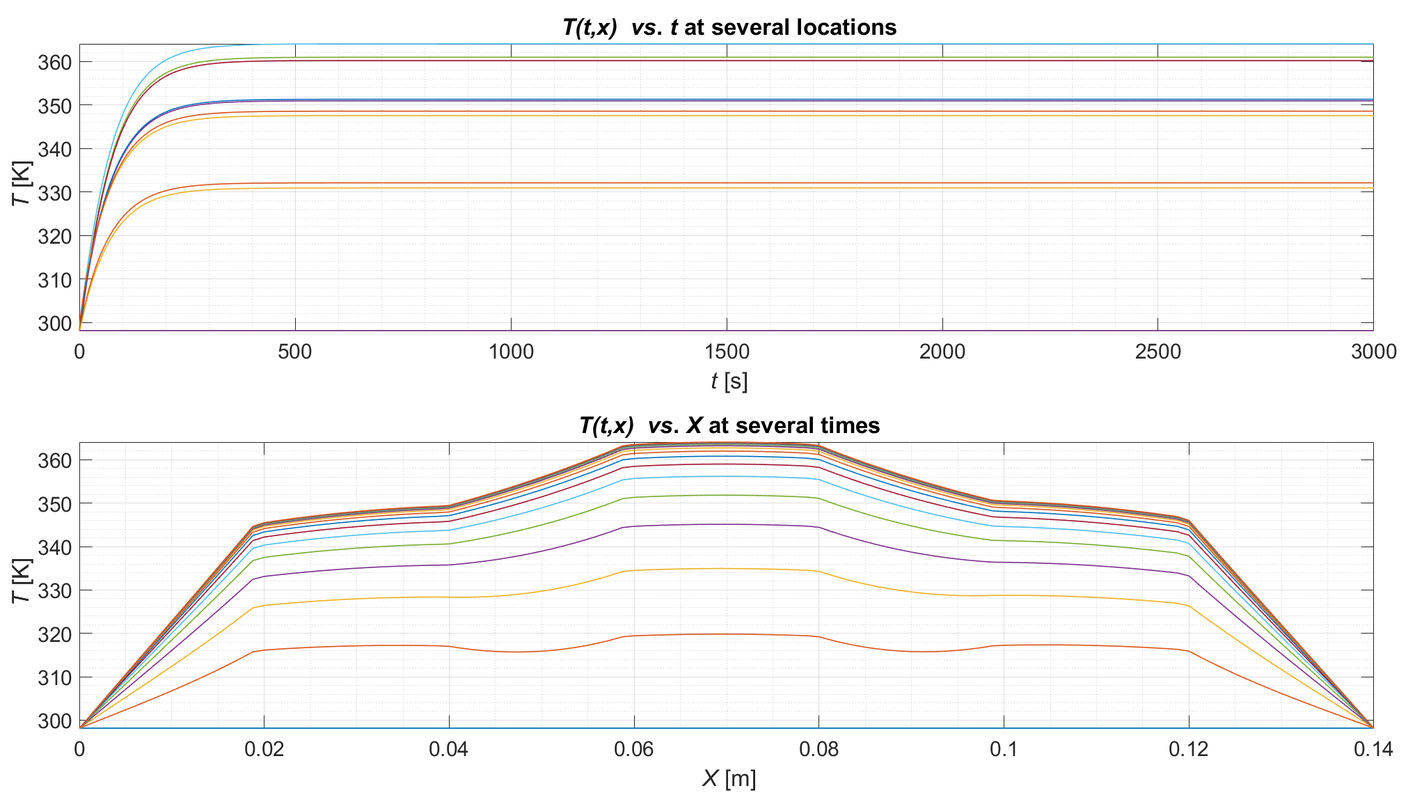
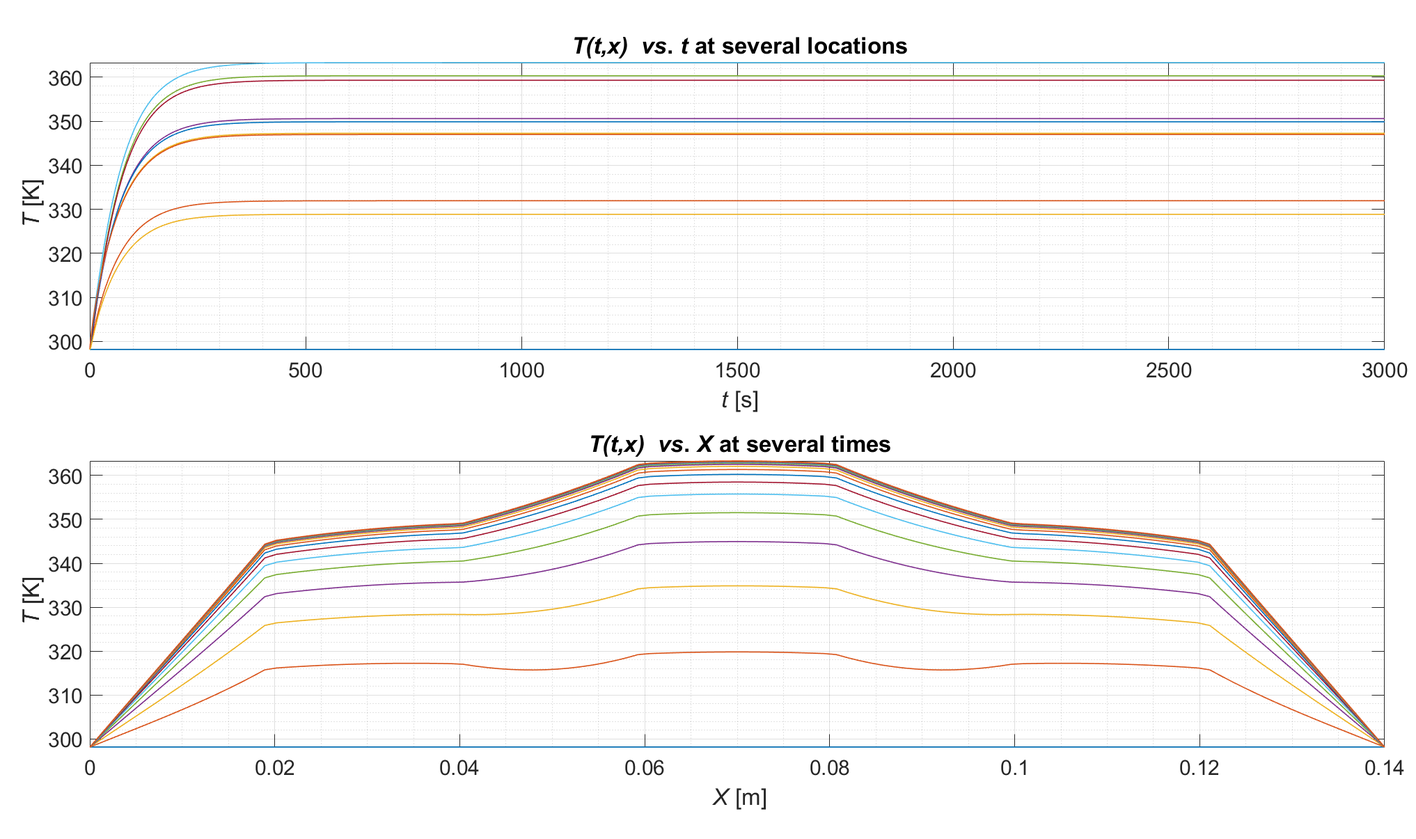
+ figuras

Changed region(s): [[0.0, 0.031, 0.9916, 0.9294], [0.031, 0.5577, 0.062, 0.6816], [0.4958, 0.9294, 0.5578, 0.9914]]

diff --git a/Scripts/Plot_Model_comparison.m b/Scripts/Plot_Model_comparison.m
@@ -1,19 +1,20 @@
-clc; clear all;
+clc; clear all; close all;
 %% Data
 dx=0.14;
 T_b = 298.15;
 m = 8e0;                                                    % Spatial Subdivisions
 M = 14*m;                                                   % Total n of spatial subdivisions
-x = linspace(0, dx, M+1);                                     % Spatial Coordinates [m]
-xx = linspace(0, dx, M);                                     % Spatial Coordinates [m]
+x = linspace(0, dx, M);                                     % Spatial Coordinates [m]
+xx =x;                                                      % Spatial Coordinates [m]
 % X = linspace(0,dx,M);
 
-T_apD_Num = [298.150000000000,301.261359749779,304.363208168939,307.457176914116,310.544943959253,313.628235188425,316.708826126700,319.788543819270,322.869268869768,325.952937649551,329.041544690604,332.137145275755,335.241858240977,338.357869005837,341.487432849487,344.632878451190,345.521379670538,345.913021709391,346.284522370425,346.635919632971,346.967249533814,347.278546152308,347.569841596339,347.841165989125,348.092547456864,348.324012117221,348.535584068665,348.727285380642,348.899136084591,349.051154165806,349.183355556137,349.295754127529,349.495553226866,350.229127361993,350.985435547089,351.765095284256,352.568747333720,353.397056648013,354.250713356480,355.130433803192,356.036961641667,356.971068989977,357.933557650157,358.925260396070,359.947042334261,360.999802342638,362.084474592235,363.202030157700,363.525402379160,363.657084787726,363.770581093863,363.865904763881,363.943067117654,364.002077324882,364.042942402064,364.065667210188,364.070254453127,364.056704676746,364.025016268727,363.975185459097,363.907206321470,363.821070775004,363.716768587059,363.594287376582,363.290784181322,362.244057895507,361.230358534211,360.248777093183,359.298440631552,358.378510766442,357.488182251470,356.626681633901,355.793265985610,354.987221703359,354.207863374197,353.454532702128,352.726597492450,352.023450690402,351.344509471034,350.689214377386,350.511671622650,350.409717393617,350.288089781291,350.146775887687,349.985760744053,349.805027316847,349.604556514545,349.384327195279,349.144316175315,348.884498238354,348.604846145677,348.305330647121,347.985920492885,347.646582446183,347.287281296715,346.907979874994,346.046409452109,342.997960627294,339.966540682881,336.949862780835,333.945711128913,330.951937492575,327.966457963969,324.987249969821,322.012349501472,319.039848551708,316.067892744198,313.094679142441,310.118454226122,307.137512023634,304.150192390333,301.154879422796,298.150000000000];
+T_apD_Num = [298.150000000000,301.243709669967,304.327898867862,307.404189535047,310.474249335283,313.539793224774,316.602585158364,319.664439941914,322.727225241583,325.792863761566,328.863335602689,331.940680815281,335.027002160826,338.124468098101,341.235316010888,344.361855695820,345.244988435313,345.634114084403,346.003069922636,346.351893577651,346.680620734790,346.989285122316,347.277918497457,347.546550633311,347.795209306585,348.023920286188,348.232707322666,348.421592138480,348.590594419131,348.739731805130,348.869019884807,348.978472187974,349.171842927707,349.882265833555,350.615140922503,351.371064730178,352.150656484623,352.954559001808,353.783439629312,354.637991241142,355.518933286868,356.427012898493,357.363006058738,358.327718834694,359.321988681090,360.346685817796,361.402714686465,362.491015491696,362.805991111289,362.933696693744,363.043130639751,363.134305856088,363.207233104991,363.261921000558,363.298376005880,363.316602430880,363.316602430880,363.298376005880,363.261921000558,363.207233104991,363.134305856088,363.043130639751,362.933696693744,362.805991111289,362.491015491696,361.402714686465,360.346685817796,359.321988681090,358.327718834694,357.363006058738,356.427012898493,355.518933286868,354.637991241142,353.783439629312,352.954559001808,352.150656484623,351.371064730178,350.615140922503,349.882265833555,349.171842927707,348.978472187974,348.869019884807,348.739731805130,348.590594419131,348.421592138480,348.232707322666,348.023920286188,347.795209306585,347.546550633311,347.277918497457,346.989285122316,346.680620734790,346.351893577651,346.003069922636,345.634114084403,345.244988435313,344.361855695820,341.235316010888,338.124468098101,335.027002160826,331.940680815281,328.863335602689,325.792863761566,322.727225241583,319.664439941914,316.602585158364,313.539793224774,310.474249335283,307.404189535047,304.327898867862,301.243709669967,298.150000000000];
 T_apA_An = [298.150000000000,302.326072660193,306.426216726565,310.450432199115,314.398719077843,318.271077362749,322.067507053834,325.788008151097,329.432580654539,333.001224564158,336.493939879956,339.910726601933,343.251584730087,346.516514264420,349.705515204931,352.818587551621,355.855731304489,358.816946463535,361.702233028759,364.511591000162,367.245020377743,369.902521161502,372.484093351440,374.989736947556,377.419451949850,379.773238358323,382.051096172974,384.253025393803,386.379026020810,388.429098053996,390.403241493360,392.301456338903,394.123742590623,395.870100248522,397.540529312600,399.135029782855,400.653601659289,402.096244941901,403.462959630692,404.753745725661,405.968603226808,407.107532134133,408.170532447637,409.157604167319,410.068747293179,410.903961825218,411.663247763435,412.346605107830,412.954033858404,413.485534015156,413.941105578086,414.320748547194,414.624462922481,414.852248703946,415.004105891590,415.080034485411,415.080034485411,415.004105891590,414.852248703946,414.624462922481,414.320748547194,413.941105578086,413.485534015156,412.954033858404,412.346605107830,411.663247763435,410.903961825218,410.068747293179,409.157604167319,408.170532447637,407.107532134133,405.968603226808,404.753745725661,403.462959630692,402.096244941901,400.653601659289,399.135029782855,397.540529312600,395.870100248522,394.123742590623,392.301456338903,390.403241493360,388.429098053996,386.379026020810,384.253025393803,382.051096172974,379.773238358323,377.419451949850,374.989736947556,372.484093351440,369.902521161503,367.245020377743,364.511591000162,361.702233028759,358.816946463535,355.855731304489,352.818587551621,349.705515204931,346.516514264420,343.251584730087,339.910726601933,336.493939879956,333.001224564158,329.432580654539,325.788008151097,322.067507053834,318.271077362749,314.398719077843,310.450432199115,306.426216726565,302.326072660193,298.150000000000];
-T_apA_Num = [298.150000000000,302.289121691544,306.353664604462,310.343628739183,314.259014096136,318.099820675749,321.866048478447,325.557697504656,329.174767754797,332.717259229290,336.185171928554,339.578505853003,342.897261003048,346.141437379096,349.311034981551,352.406053810812,355.426493867273,358.372355151325,361.243637663352,364.040341403732,366.762466372839,369.410012571039,371.982979998694,374.481368656157,376.905178543775,379.254409661888,381.529062010828,383.729135590918,385.854630402476,387.905546445810,389.881883721218,391.783642228992,393.610821969414,395.363422942755,397.041445149280,398.644888589242,400.173753262884,401.628039170440,403.007746312133,404.312874688178,405.543424298775,406.699395144118,407.780787224386,408.787600539750,409.719835090369,410.577490876391,411.360567897951,412.069066155174,412.702985648174,413.262326377051,413.747088341896,414.157271542787,414.492875979789,414.753901652957,414.940348562332,415.052216707945,415.089506089814,415.052216707945,414.940348562332,414.753901652957,414.492875979789,414.157271542787,413.747088341896,413.262326377051,412.702985648174,412.069066155174,411.360567897951,410.577490876391,409.719835090369,408.787600539750,407.780787224386,406.699395144118,405.543424298775,404.312874688178,403.007746312133,401.628039170440,400.173753262884,398.644888589242,397.041445149280,395.363422942755,393.610821969414,391.783642228992,389.881883721218,387.905546445810,385.854630402476,383.729135590918,381.529062010828,379.254409661888,376.905178543775,374.481368656157,371.982979998694,369.410012571039,366.762466372839,364.040341403732,361.243637663352,358.372355151325,355.426493867273,352.406053810812,349.311034981551,346.141437379096,342.897261003048,339.578505853003,336.185171928554,332.717259229290,329.174767754797,325.557697504656,321.866048478447,318.099820675749,314.259014096136,310.343628739183,306.353664604462,302.289121691544,298.150000000000];
+T_apA_Num = [298.150000000000,302.251832440304,306.279086101879,310.231760985051,314.109857090146,317.913374417489,321.642312967405,325.296672740216,328.876453736242,332.381655955804,335.812279399219,339.168324066801,342.449789958863,345.656677075714,348.788985417660,351.846714985005,354.829865778049,357.738437797086,360.572431042409,363.331845514305,366.016681213056,368.626938138942,371.162616292235,373.623715673203,376.010236282109,378.322178119210,380.559541184756,382.722325478994,384.810531002162,386.824157754494,388.763205736213,390.627674947542,392.417565388690,394.132877059864,395.773609961262,397.339764093073,398.831339455482,400.248336048663,401.590753872783,402.858592928003,404.051853214472,405.170534732334,406.214637481723,407.184161462766,408.079106675579,408.899473120273,409.645260796947,410.316469705691,410.913099846589,411.435151219714,411.882623825129,412.255517662891,412.553832733045,412.777569035628,412.926726570668,413.001305338184,413.001305338184,412.926726570668,412.777569035628,412.553832733045,412.255517662891,411.882623825129,411.435151219714,410.913099846589,410.316469705691,409.645260796947,408.899473120273,408.079106675579,407.184161462766,406.214637481723,405.170534732334,404.051853214472,402.858592928003,401.590753872783,400.248336048663,398.831339455482,397.339764093073,395.773609961262,394.132877059864,392.417565388690,390.627674947542,388.763205736213,386.824157754494,384.810531002162,382.722325478994,380.559541184756,378.322178119210,376.010236282109,373.623715673203,371.162616292235,368.626938138942,366.016681213056,363.331845514305,360.572431042409,357.738437797086,354.829865778049,351.846714985005,348.788985417660,345.656677075714,342.449789958863,339.168324066801,335.812279399219,332.381655955804,328.876453736242,325.296672740216,321.642312967405,317.913374417489,314.109857090146,310.231760985051,306.279086101879,302.251832440304,298.150000000000];
 T_apB_An = [298.150000000000,302.364036957104,306.578073914208,310.792110871312,315.006147828416,319.220184785521,323.434221742625,327.648258699729,331.862295656833,336.076332613937,340.290369571041,344.504406528145,348.718443485249,352.932480442353,357.146517399458,361.360554356562,361.897564864880,362.411513572227,362.902400478603,363.370225584009,363.814988888444,364.236690391908,364.635330094402,365.010907995925,365.363424096477,365.692878396059,365.999270894670,366.282601592310,366.542870488979,366.780077584678,366.994222879406,367.185306373163,368.589985358864,369.994664344566,371.399343330267,372.804022315968,374.208701301670,375.613380287371,377.018059273073,378.422738258774,379.827417244475,381.232096230177,382.636775215878,384.041454201579,385.446133187281,386.850812172982,388.255491158683,389.660170144385,389.831486380167,389.979740814979,390.104933448820,390.207064281690,390.286133313590,390.342140544519,390.375085974477,390.384969603464,390.384969603464,390.375085974477,390.342140544519,390.286133313590,390.207064281690,390.104933448820,389.979740814979,389.831486380167,389.660170144385,388.255491158683,386.850812172982,385.446133187281,384.041454201579,382.636775215878,381.232096230177,379.827417244475,378.422738258774,377.018059273073,375.613380287371,374.208701301670,372.804022315968,371.399343330267,369.994664344566,368.589985358864,367.185306373163,366.994222879406,366.780077584678,366.542870488979,366.282601592310,365.999270894670,365.692878396059,365.363424096477,365.010907995925,364.635330094402,364.236690391908,363.814988888444,363.370225584009,362.902400478603,362.411513572227,361.897564864880,361.360554356562,357.146517399458,352.932480442353,348.718443485249,344.504406528145,340.290369571041,336.076332613937,331.862295656833,327.648258699729,323.434221742625,319.220184785521,315.006147828416,310.792110871312,306.578073914208,302.364036957104,298.150000000000];
-T_apB_Num = [298.150000000000,302.387343167327,306.624686334655,310.862029501984,315.099372669314,319.336715836645,323.574059003977,327.811402171309,332.048745338642,336.286088505976,340.523431673311,344.760774840647,348.998118007984,353.235461175321,357.472804342660,361.710147509999,362.900160780972,363.429084138799,363.935355675057,364.418975389746,364.879943282867,365.318259354419,365.733923604401,366.126936032815,366.497296639661,366.845005424937,367.170062388644,367.472467530783,367.752220851353,368.009322350354,368.243772027786,368.455569883649,368.863648962205,370.316717711465,371.769786460725,373.222855209986,374.675923959248,376.128992708511,377.582061457775,379.035130207040,380.488198956306,381.941267705573,383.394336454840,384.847405204109,386.300473953378,387.753542702649,389.206611451920,390.659680201192,391.067759279752,391.234253492480,391.378095883638,391.499286453228,391.597825201249,391.673712127702,391.726947232585,391.757530515900,391.765461977646,391.750741617823,391.713369436432,391.653345433471,391.570669608942,391.465341962844,391.337362495177,391.186731205942,390.812876092087,389.481670423286,388.150464754487,386.819259085688,385.488053416890,384.156847748094,382.825642079298,381.494436410503,380.163230741708,378.832025072915,377.500819404123,376.169613735332,374.838408066541,373.507202397751,372.175996728963,370.844791060175,370.470935946324,370.275001013953,370.056414260013,369.815175684504,369.551285287427,369.264743068780,368.955549028565,368.623703166781,368.269205483428,367.892055978506,367.492254652015,367.069801503956,366.624696534327,366.156939743130,365.666531130364,365.153470696029,363.997681389762,359.882201302895,355.766721216030,351.651241129165,347.535761042301,343.420280955438,339.304800868576,335.189320781714,331.073840694854,326.958360607994,322.842880521135,318.727400434277,314.611920347420,310.496440260564,306.380960173708,302.265480086854,298.150000000000];
+T_apB_Num = [298.150000000000,302.326411627096,306.502823254192,310.679234881289,314.855646508387,319.032058135486,323.208469762586,327.384881389687,331.561293016788,335.737704643891,339.914116270994,344.090527898098,348.266939525203,352.443351152309,356.619762779415,360.796174406523,361.969075695144,362.490067591226,362.988407665738,363.464095918682,363.917132350057,364.347516959864,364.755249748101,365.140330714769,365.502759859869,365.842537183400,366.159662685362,366.454136365755,366.725958224579,366.975128261835,367.201646477521,367.405512871639,367.796479967844,369.188617176872,370.580754385901,371.972891594930,373.365028803961,374.757166012992,376.149303222024,377.541440431057,378.933577640091,380.325714849126,381.717852058161,383.109989267198,384.502126476235,385.894263685273,387.286400894312,388.678538103352,389.069505199560,389.228067950542,389.363978879955,389.477237987800,389.567845274075,389.635800738782,389.681104381919,389.703756203488,389.703756203488,389.681104381919,389.635800738782,389.567845274075,389.477237987800,389.363978879955,389.228067950542,389.069505199560,388.678538103352,387.286400894312,385.894263685273,384.502126476235,383.109989267198,381.717852058161,380.325714849126,378.933577640091,377.541440431057,376.149303222024,374.757166012992,373.365028803961,371.972891594930,370.580754385901,369.188617176872,367.796479967844,367.405512871639,367.201646477521,366.975128261835,366.725958224579,366.454136365755,366.159662685362,365.842537183400,365.502759859869,365.140330714769,364.755249748101,364.347516959864,363.917132350057,363.464095918682,362.988407665738,362.490067591226,361.969075695144,360.796174406523,356.619762779415,352.443351152309,348.266939525203,344.090527898098,339.914116270994,335.737704643891,331.561293016788,327.384881389687,323.208469762586,319.032058135486,314.855646508387,310.679234881289,306.502823254192,302.326411627096,298.150000000000];
 T_apC_An = [298.15,300.387673043729,303.111610936472,305.744317078174,308.288469400123,310.746655758590,313.121376567140,315.415047340005,317.630001149085,319.768490997102,321.832692109301,323.824704146050,325.746553338558,327.600194549923,329.387513263568,331.110327501120,332.770389671658,334.369388354228,335.908950015426,337.390640663806,338.815967442791,340.186380163702,341.503272780480,342.767984807583,343.981802682509,345.145961074335,346.261644139596,347.329986726780,348.352075530673,349.328950197721,350.261604383537,351.150986763624,351.998001998347,352.803511653135,353.568335074847,354.293250225192,354.978994472053,355.626265339530,356.235721217434,356.807982030997,357.343629871441,357.843209588071,358.307229342482,358.736161125450,359.130441237035,359.490470730368,359.816615819600,360.109208252404,360.368545647426,360.594891797007,360.788476935516,360.949497973535,361.078118698154,361.174469939569,361.238649704162,361.270723274191,361.270723274191,361.238649704162,361.174469939569,361.078118698154,360.949497973535,360.788476935516,360.594891797007,360.368545647426,360.109208252404,359.816615819600,359.490470730368,359.130441237035,358.736161125450,358.307229342482,357.843209588071,357.343629871441,356.807982030997,356.235721217434,355.626265339530,354.978994472053,354.293250225192,353.568335074847,352.803511653135,351.998001998347,351.150986763624,350.261604383537,349.328950197721,348.352075530673,347.329986726780,346.261644139596,345.145961074335,343.981802682509,342.767984807583,341.503272780480,340.186380163702,338.815967442791,337.390640663806,335.908950015426,334.369388354228,332.770389671658,331.110327501120,329.387513263568,327.600194549923,325.746553338558,323.824704146050,321.832692109301,319.768490997102,317.630001149085,315.415047340005,313.121376567140,310.746655758590,308.288469400124,305.744317078175,303.111610936472,300.387673043729,298.15];
+T_apC_Num = [298.150000000000,301.083356781947,303.932531335274,306.699017882861,309.384308056219,311.989888832147,314.517240539408,316.967834938552,319.343133377427,321.644585024309,323.873625180021,326.031673669895,328.120133315957,330.140388489248,332.093803741806,333.981722517450,335.805465940171,337.566331678648,339.265592885116,340.904497206619,342.484265866415,344.006092813213,345.471143935694,346.880556339705,348.235437685401,349.536865581539,350.785887034091,351.983517946291,353.130742667246,354.228513586233,355.277750769809,356.279341638931,357.234140683290,358.142969210142,359.006615124978,359.825832741435,360.601342617973,361.333831418864,362.023951797195,362.672322297650,363.279527276939,363.846116839857,364.372606789061,364.859478586744,365.307179326527,365.716121713973,366.086684054255,366.419210245617,366.714009777383,366.971357731387,367.191494785801,367.374627220452,367.520926922858,367.630531394278,367.703543755234,367.740032750047,367.740032750047,367.703543755234,367.630531394278,367.520926922858,367.374627220452,367.191494785801,366.971357731387,366.714009777383,366.419210245617,366.086684054255,365.716121713973,365.307179326527,364.859478586744,364.372606789061,363.846116839857,363.279527276939,362.672322297650,362.023951797195,361.333831418864,360.601342617973,359.825832741435,359.006615124978,358.142969210142,357.234140683290,356.279341638931,355.277750769809,354.228513586233,353.130742667246,351.983517946291,350.785887034091,349.536865581539,348.235437685401,346.880556339705,345.471143935694,344.006092813213,342.484265866415,340.904497206619,339.265592885116,337.566331678648,335.805465940171,333.981722517450,332.093803741806,330.140388489248,328.120133315957,326.031673669895,323.873625180021,321.644585024309,319.343133377427,316.967834938552,314.517240539408,311.989888832147,309.384308056219,306.699017882861,303.932531335274,301.083356781947,298.150000000000];
 
 T_stat_plot_central = [298.150000000000,302.697561442662,307.238998953651,311.782714883455,316.337044789347,320.910157613121,325.509954208464,330.143967740415,334.819273097100,339.542416247864,344.319377485800,349.155583341989,354.055979217992,356.438960352454,357.349110195355,357.956897003959,358.529037770617,359.064732285873,359.562998667003,360.022752803866,360.442884015472,360.822321807750,361.160091052406,361.455354826111,361.707445368658,361.915884213791,362.080392719801,362.250988599592,362.666636451580,363.602228078228,364.609401021309,365.691036770895,366.850066082878,368.089376094783,369.411726950986,370.819680839085,372.315547051795,373.901347954311,375.578811923391,377.349399525473,379.214367507668,380.154529701350,380.512914870676,380.730678357926,380.912798080866,381.058978757688,381.168926536632,381.242384716948,381.279163959280,381.279163959280,381.242384716948,381.168926536632,381.058978757688,380.912798080866,380.730678357926,380.512914870676,380.154529701350,379.214367507668,377.349399525473,375.578811923391,373.901347954311,372.315547051795,370.819680839085,369.411726950986,368.089376094783,366.850066082878,365.691036770895,364.609401021309,363.602228078228,362.666636451580,362.250988599592,362.080392719801,361.915884213791,361.707445368658,361.455354826111,361.160091052406,360.822321807750,360.442884015472,360.022752803866,359.562998667003,359.064732285873,358.529037770617,357.956897003959,357.349110195355,356.438960352454,354.055979217992,349.155583341989,344.319377485800,339.542416247864,334.819273097100,330.143967740415,325.509954208464,320.910157613121,316.337044789347,311.782714883455,307.238998953651,302.697561442662,298.150000000000];
 X = [0,0.00144329896907217,0.00288659793814433,0.00432989690721650,0.00577319587628866,0.00721649484536083,0.00865979381443299,0.0101030927835052,0.0115463917525773,0.0129896907216495,0.0144329896907217,0.0158762886597938,0.0173195876288660,0.0187628865979381,0.0202061855670103,0.0216494845360825,0.0230927835051546,0.0245360824742268,0.0259793814432990,0.0274226804123711,0.0288659793814433,0.0303092783505155,0.0317525773195876,0.0331958762886598,0.0346391752577320,0.0360824742268041,0.0375257731958763,0.0389690721649485,0.0404123711340206,0.0418556701030928,0.0432989690721650,0.0447422680412371,0.0461855670103093,0.0476288659793814,0.0490721649484536,0.0505154639175258,0.0519587628865979,0.0534020618556701,0.0548453608247423,0.0562886597938144,0.0577319587628866,0.0591752577319588,0.0606185567010309,0.0620618556701031,0.0635051546391753,0.0649484536082474,0.0663917525773196,0.0678350515463918,0.0692783505154639,0.0707216494845361,0.0721649484536083,0.0736082474226804,0.0750515463917526,0.0764948453608248,0.0779381443298969,0.0793814432989691,0.0808247422680413,0.0822680412371134,0.0837113402061856,0.0851546391752577,0.0865979381443299,0.0880412371134021,0.0894845360824742,0.0909278350515464,0.0923711340206186,0.0938144329896907,0.0952577319587629,0.0967010309278351,0.0981443298969072,0.0995876288659794,0.101030927835052,0.102474226804124,0.103917525773196,0.105360824742268,0.106804123711340,0.108247422680412,0.109690721649485,0.111134020618557,0.112577319587629,0.114020618556701,0.115463917525773,0.116907216494845,0.118350515463918,0.119793814432990,0.121237113402062,0.122680412371134,0.124123711340206,0.125567010309278,0.127010309278351,0.128453608247423,0.129896907216495,0.131340206185567,0.132783505154639,0.134226804123711,0.135670103092784,0.137113402061856,0.138556701030928,0.140000000000000];
@@ -42,27 +43,65 @@ hold on
 myplot(xx, T_apB_An)
 myplot1(x, T_apB_Num)
 myplot2(x, T_apD_Num)
-myplot3(x, T_apD_Num)
 
 axis([0 dx T_b*0.95 max(T_apB_An)*1.09])
 ylabel('{\it T} [K]')
 xlabel('{\it x} [m]');
 legend('Solución analítica, solo conducción', 'Solución numérica, solo conducción',...
-    'Solución analítica, radiación y conducción', 'Solución numérica, radiación y conducción')
+    'Solución numérica, radiación y conducción')
 hold off
 
+%% Comparar A y C (numerical + analitical)
+figure()
+hold on
+myplot(xx, T_apA_An)
+myplot1(x, T_apA_Num)
+% myplot2(x, T_apC_Num)
+myplot3(x, T_apC_An)
+axis([0 dx T_b*0.95 max(T_apA_Num)*1.09])
+ylabel('{\it T} [K]')
+xlabel('{\it x} [m]');
+% legend('Solución analítica, solo conducción, disipación uniforme', 'Solución numérica, solo conducción, disipación uniforme',...
+%     'Solución numérica, radiación y conducción, disipación uniforme', 'Solución analítica, radiación y conducción, disipación uniforme')
+legend('Solución analítica, solo conducción, disipación uniforme', 'Solución numérica, solo conducción, disipación uniforme',...
+    'Solución analítica, radiación y conducción, disipación uniforme')
+hold off
 
 %% Comparar E(perfil central) con D
 figure()
 hold on
 myplot(x, T_apD_Num)
-myplot1(X, T_stat_plot_central)
-axis([0 dx T_b*0.95 max(T_stat_plot_central)*1.09])
+myplot3(X, T_stat_plot_central)
+axis([0 dx T_b*0.95 max(T_stat_plot_central)*1.06])
 ylabel('{\it T} [K]')
 xlabel('{\it x} [m]');
 legend('Modelo 1D estacionario', 'Modelo 2D estacionario, perfil central')
 hold off
 
+%% Comparar E(perfil central) con D y con B
+figure()
+hold on
+myplot(x, T_apD_Num)
+myplot1(x, T_apB_Num)
+myplot3(X, T_stat_plot_central)
+
+axis([0 dx T_b*0.95 max(T_apB_Num)*1.04])
+ylabel('{\it T} [K]')
+xlabel('{\it x} [m]');
+legend('Modelo 1D estacionario', 'Modelo 1D estacionario, solo conducción', 'Modelo 2D estacionario, perfil central')
+hold off
+
+%% Comparar E(perfil central) con D y  con C
+figure()
+hold on
+myplot1(x, T_apC_An)
+myplot(x, T_apD_Num)
+myplot3(X, T_stat_plot_central)
+axis([0 dx T_b*0.95 max(T_stat_plot_central)*1.06])
+ylabel('{\it T} [K]')
+xlabel('{\it x} [m]');
+legend('Solución analítica 1D estacionario', 'Modelo 1D estacionario', 'Modelo 2D estacionario, perfil central')
+hold off
 %% FUNCTIONS
 %%%%%%%%%%%%%%%%%%%%%%%%%%%%%%%%%%
 % Plotting function

diff --git a/Scripts/Conduccion_NumSim_vFINAL.m b/Scripts/Conduccion_NumSim_vFINAL.m
@@ -26,7 +26,7 @@ Conduccion_NumSim_DATOS
 %___________________________________________________________________________
 %% Choose exercise to run
 %%%%%%%%%%%%%%%%%%%%%%%%%%%%%%%%%%%%%%%%%%%%%%%%%%%%%%%%%%%%%%%%%%%%%%%%%%%%
-choose = 'e';       % 'a', 'b', 'c', 'd' & 'e' %
+choose = 'd';       % 'a', 'b', 'c', 'd' & 'e' %
 %%%%%%%%%%%%%%%%%%%%%%%%%%%%%%%%%%%%%%%%%%%%%%%%%%%%%%%%%%%%%%%%%%%%%%%%%%%%
 %___________________________________________________________________________
 %% Define global parameters
@@ -211,8 +211,8 @@ switch(choose)
         % Resolver el caso anterior pero sin linealizar y con la disipación no uniforme.
     case 'd'
         %%%%%%%%%%%%%%%%%%%%%%%%%%%%%%%%%%%%%%%%%%%%%%%%%%%%%%%%%%%%%%%%%%%%%%%%%%%%
-        validate = 2;       % 1: Uniform dissipation    % 2: Non-uniform dissipation
-        radiation = 2;      % 1: Include radiation      % 2: Do not include radiation
+        validate = 1;       % 1: Uniform dissipation    % 2: Non-uniform dissipation
+        radiation = 1;      % 1: Include radiation      % 2: Do not include radiation
         %%%%%%%%%%%%%%%%%%%%%%%%%%%%%%%%%%%%%%%%%%%%%%%%%%%%%%%%%%%%%%%%%%%%%%%%%%%%
         h=0;                % Convective coefficient [W/(m^2·K)] (NO CONVECTION)
         p = (2*dy);         % Radiative perimeter [m]
@@ -229,12 +229,12 @@ switch(choose)
         % Initialising
         switch(validate)
             case 1
-                phi = ones(1,M+1);
-                k = ones(1,M+1);
-                A_vect = ones(1,M+1);
-                V = ones(1,M+1);
-                C = ones(1,M+1);
-                for i = 1:M+1
+                phi = ones(1,M);
+                k = ones(1,M);
+                A_vect = ones(1,M);
+                V = ones(1,M);
+                C = ones(1,M);
+                for i = 1:M
                     phi(i) = (3 * Q_ic) / Vol ;
                     k(i) = k_eff;
                     A_vect(i)= A;
@@ -281,24 +281,17 @@ switch(choose)
                 A_vect(((M/2)+1):M) = A_vect(M/2:-1:1);            % Mirror vector A_vect
                 V(((M/2)+1):M) = V(M/2:-1:1);                      % Mirror vector V
                 C(((M/2)+1):M) = C(M/2:-1:1);                      % Mirror vector C
-                %%% Give a value to the M+1 vector location (needed for temperature
-                %%% equation
-                phi(M+1) = phi(M);
-                k(M+1) = k(M);
-                A_vect(M+1) = A_vect(M);
-                V(M+1) = V(M);
-                C(M+1) = C(M);
         end
         
         %%Initialising:         % N time % M space
         Dx=dx/M;                % Element width
-        X=linspace(0,dx,M+1);   % Node position list (equispaced)
+        X=linspace(0,dx,M);   % Node position list (equispaced)
         Dt=tsim/N;              % Time step (you might fix it instead of tsim)
         t=linspace(0,tsim,N)';  % Time vector
         DtrcA = ones(1,M);
-        kALapla = ones(N,M+1);
-        phDT = ones(N,M+1);
-        T=T_b*ones(N,M+1); 	% Temperature-matrix (times from 1 to n, and positions from 1 to M+1)
+        kALapla = ones(N,M);
+        phDT = ones(N,M);
+        T=T_b*ones(N,M); 	% Temperature-matrix (times from 1 to n, and positions from 1 to M+1)
 
         %%% Check for stability of the explicit finite difference method %%
         for i = 1:M
@@ -312,10 +305,10 @@ switch(choose)
 
         %%% Temperature profile equation by means of finite elements methods %%%
         j=1; T(j,:)=T_b;       % Initial temperature profile T(x,t)=0 (assumed uniform)
-        it=M+1; T(:,it)=T_b;
+        it=M; T(:,it)=T_b;
         for j=2:N              % Time advance
             i=1; T(j,i)=T_b;   % Left border (base) maintained at T_b
-            for i=2:M          % Generic spatial nodes
+            for i=2:M-1        % Generic spatial nodes
                 DtrcA(i) = (Dt/((C(i)/V(i))*A_vect(i)));
                 kALapla(j,i) = (( ((k(i+1)+k(i))/2) * ((A_vect(i)+A_vect(i+1))/2) *...
                     (T(j-1,i+1)-T(j-1,i))- ((k(i)+k(i-1))/2) * ((A_vect(i)+A_vect(i-1))/2) *...
@@ -328,13 +321,13 @@ switch(choose)
             %Boundory condition in node 0:
             T(j,1)=T_b;      %if Troot is fixed
             %Boundory condition in node N:
-            T(j,M+1)=T_b;    %if Troot is fixed
+            T(j,M)=T_b;    %if Troot is fixed
         end
         %%% PLOT TEMPERATURE PROFILE %%%
         T_0 =  max(T(N,:))                                  % Max T [K]
         T_0_C = convtemp(T_0, 'K', 'C')                     % Max T [Celsius]
         % Plot transitory
-        subplot(2,1,1);myplot(t,T(:,1:M/10:M+1));xlabel('{\it t} [s]'),ylabel('{\it T} [K]');
+        subplot(2,1,1);myplot(t,T(:,1:M/10:M));xlabel('{\it t} [s]'),ylabel('{\it T} [K]');
         title('{\it T(t,x)} {\it vs}.{\it t} at several locations')
         subplot(2,1,2);myplot(X,T(1:N/100:N,:));xlabel('{\it X} [m]'),ylabel('{\it T} [K]');
         title('{\it T(t,x)} {\it vs}.{\it X} at several times')
